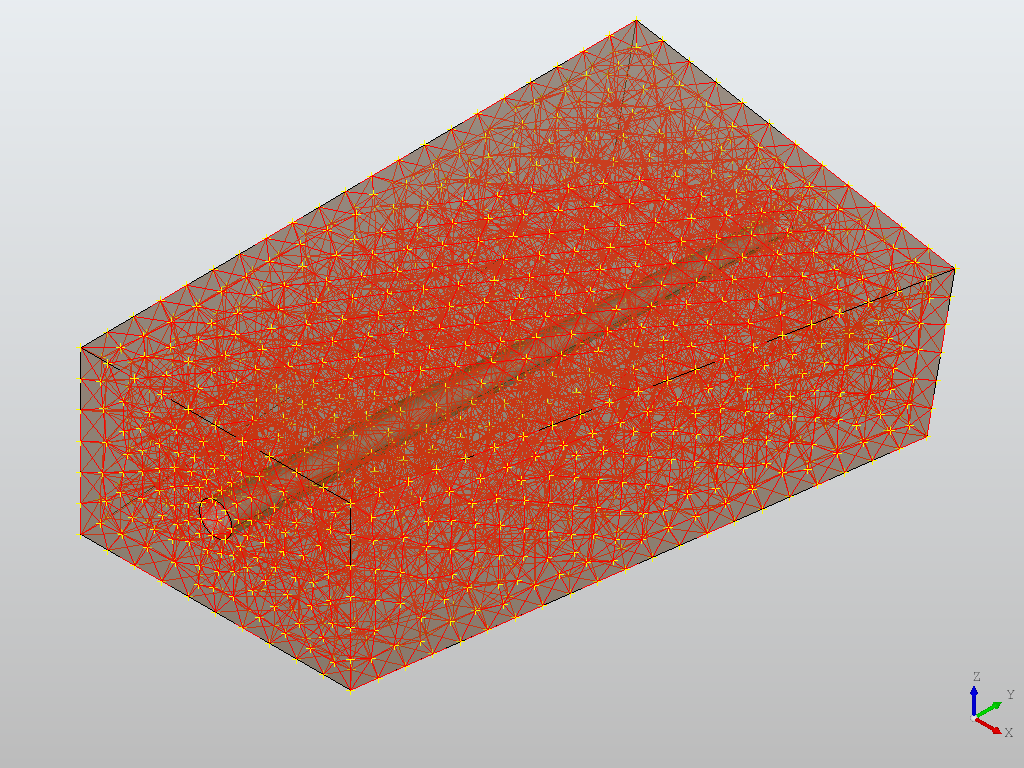
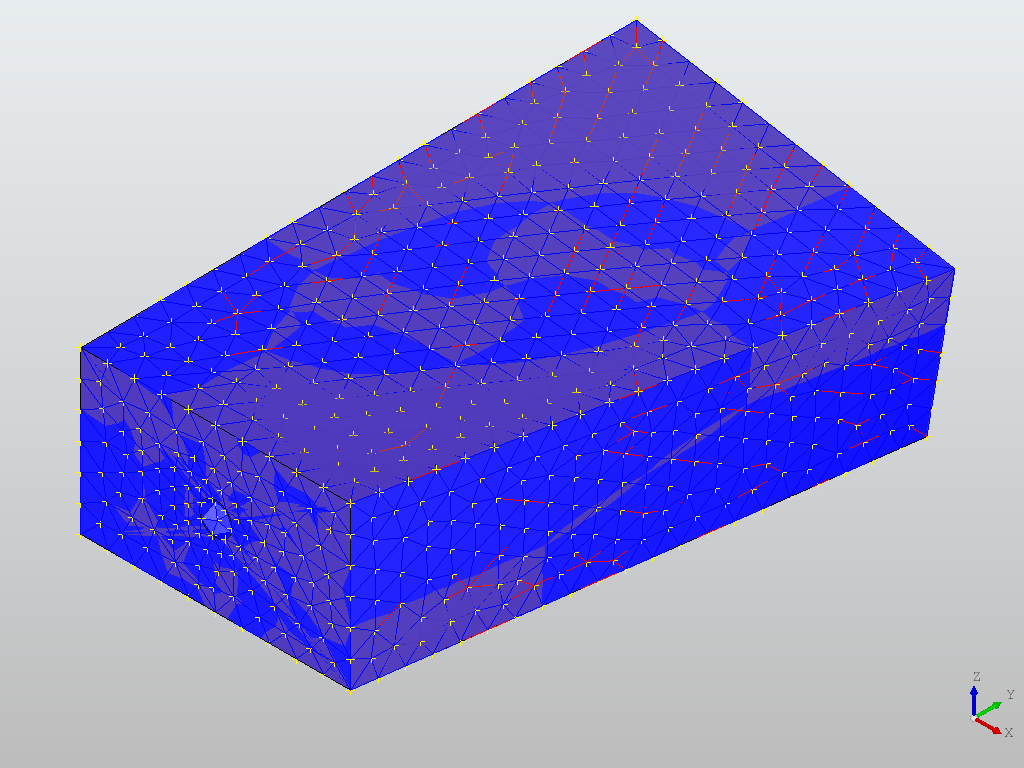
defromning

diff --git a/occ_gallery/core_solid_volmesh.py b/occ_gallery/core_solid_volmesh.py
@@ -481,6 +481,8 @@ if __name__ == "__main__":
         return mesh
 
     skfem_mesh = None
+    # container for shapes of the deformed surface triangles (populated after solve)
+    deformed_tri_shapes = None
     if len(tets) > 0:
         skfem_mesh = try_make_skfem_mesh(coords, tets)
         if skfem_mesh is not None:
@@ -656,6 +658,41 @@ if __name__ == "__main__":
                     "coord:",
                     node_coord,
                 )
+                # prepare deformed triangle faces (amplify Y component by 1000x)
+                deformed_tri_shapes = []
+                node_tags_sorted = sorted(coords.keys())
+                tag_to_idx = {tag: i for i, tag in enumerate(node_tags_sorted)}
+                for tri in tris:
+                    t0, t1, t2 = int(tri[0]), int(tri[1]), int(tri[2])
+                    i0 = tag_to_idx[t0]
+                    i1 = tag_to_idx[t1]
+                    i2 = tag_to_idx[t2]
+                    d0 = u_nodal[:, i0].copy()
+                    d1 = u_nodal[:, i1].copy()
+                    d2 = u_nodal[:, i2].copy()
+                    # d0[1] *= 10.0**4
+                    # d1[1] *= 10.0**4
+                    # d2[1] *= 10.0**4
+                    p0c = coords[t0]
+                    p1c = coords[t1]
+                    p2c = coords[t2]
+                    p0d = gp_Pnt(
+                        p0c[0] + float(d0[0]),
+                        p0c[1] + float(d0[1]),
+                        p0c[2] + float(d0[2]),
+                    )
+                    p1d = gp_Pnt(
+                        p1c[0] + float(d1[0]),
+                        p1c[1] + float(d1[1]),
+                        p1c[2] + float(d1[2]),
+                    )
+                    p2d = gp_Pnt(
+                        p2c[0] + float(d2[0]),
+                        p2c[1] + float(d2[1]),
+                        p2c[2] + float(d2[2]),
+                    )
+                    fd = make_face(make_polygon([p0d, p1d, p2d], True))
+                    deformed_tri_shapes.append(fd)
             else:
                 print("von Mises could not be computed with current projection method.")
 
@@ -682,6 +719,14 @@ if __name__ == "__main__":
             ed = make_edge(p0, p1)
             builder.Add(comp, ed)
         display.DisplayShape(comp, update=True)
+
+        # display deformed surface (if prepared): BLUE1
+        if deformed_tri_shapes:
+            for idx, shp in enumerate(deformed_tri_shapes):
+                # display without immediate update for speed, set color to BLUE1
+                display.DisplayShape(shp, color="BLUE1", update=False)
+            # final update
+            # display.View.Redraw()
 
     for tri in tris:
         t0, t1, t2 = int(tri[0]), int(tri[1]), int(tri[2])
